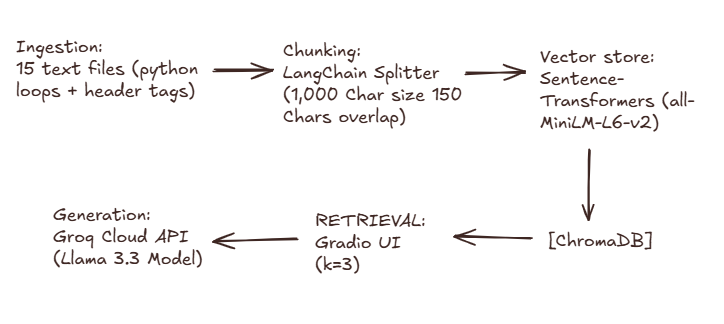
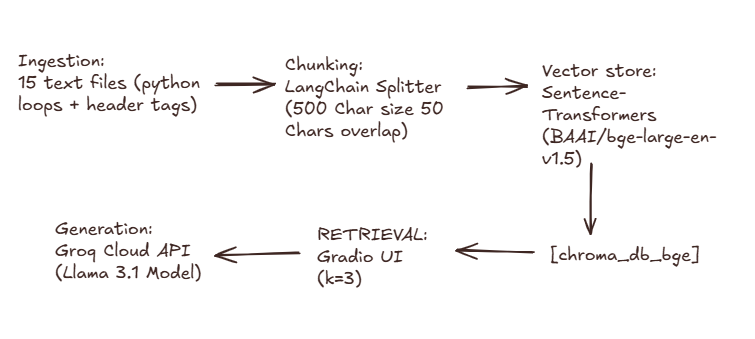
Update README.md to enhance clarity on system purpose, information sources, chunking strategy, embedding model choice, and evaluation results

Changed region(s): [[0.0, 0.1235, 0.9724, 0.8025], [0.0608, 0.6481, 0.5773, 0.8642]]

diff --git a/README.md b/README.md
@@ -9,95 +9,105 @@
 
 ## Domain
 
-<!-- What topic or category of knowledge does your system cover?
-     Why is this knowledge valuable, and why is it hard to find through official channels?
-     Example: "Student reviews of CS professors at [university] — useful because official
-     course descriptions don't reflect teaching style, exam difficulty, or workload." -->
+This system is an AI advisor that helps students learn about Computer Science professors at North Carolina A&T State University (NCAT). It brings together information about what professors teach, what they research, and what students say about their classes.
+
+**Why this matters:** The official NCAT website only shows basic information like email addresses and degrees. It doesn't tell you if a professor grades hard, cancels class often, uses old recorded videos, or teaches in a way you like. Students have to ask other students or guess. This system puts all that scattered information in one place so students can make smart choices about which professors to take classes from and which professors to ask for research help.
+
+**Where the information comes from:** We collected detailed files about 15 Computer Science professors that include their teaching history, research papers, student reviews, and office locations.
 
 ---
 
 ## Document Sources
 
-<!-- List every source you collected documents from.
-     Be specific: include URLs, subreddit names, forum thread titles, or file names.
-     Aim for variety — sources that together cover different subtopics or perspectives. -->
+We collected 15 detailed text files about NCAT Computer Science professors. Each file includes their teaching history, research interests, student reviews, office location, and active projects.
 
 | # | Source | Type | URL or file path |
 |---|--------|------|-----------------|
-| 1 | | | |
-| 2 | | | |
-| 3 | | | |
-| 4 | | | |
-| 5 | | | |
-| 6 | | | |
-| 7 | | | |
-| 8 | | | |
-| 9 | | | |
-| 10 | | | |
+| 1 | Dr. Kaushik Roy | Faculty Profile | `documents/prof_kaushik_roy.txt` |
+| 2 | Dr. Kelvin Bryant | Faculty Profile | `documents/prof_kelvin_bryant.txt` |
+| 3 | Dr. Xiaohong Yuan | Faculty Profile | `documents/prof_xiaohong_yuan.txt` |
+| 4 | Dr. Huiming Yu | Faculty Profile | `documents/prof_huiming_yu.txt` |
+| 5 | Dr. Sajad Khorsandroo | Faculty Profile | `documents/prof_sajad_khorsandroo.txt` |
+| 6 | Dr. Jinsheng Xu | Faculty Profile | `documents/prof_jinsheng_xu.txt` |
+| 7 | Dr. Mahmoud Abdelsalam | Faculty Profile | `documents/prof_mahmoud_abdelsalam.txt` |
+| 8 | Dr. Hamidreza Moradi | Faculty Profile | `documents/prof_hamidreza_moradi.txt` |
+| 9 | Dr. Olusola Odeyomi | Faculty Profile | `documents/prof_olusola_odeyomi.txt` |
+| 10 | Dr. Letu Qingge | Faculty Profile | `documents/prof_letu_qingge.txt` |
+| 11 | Dr. Madhuri Siddula | Faculty Profile | `documents/prof_madhuri_siddula.txt` |
+| 12 | Dr. Shaohu Zhang | Faculty Profile | `documents/prof_shaohu_zhang.txt` |
+| 13 | Dr. Tony Gwyn | Faculty Profile | `documents/prof_tony_gwyn.txt` |
+| 14 | Dr. Shondale Rhodes | Faculty Profile | `documents/prof_shondale_rhodes.txt` |
+| 15 | Dr. Brian Scavotto | Faculty Profile | `documents/prof_brian_scavotto.txt` |
 
 ---
 
 ## Chunking Strategy
 
-<!-- Describe your chunking approach with enough specificity that someone else could reproduce it.
-     Include:
-     - Chunk size (characters or tokens) and why that size fits your documents
-     - Overlap size and why (or why not) you used overlap
-     - Any preprocessing you did before chunking (e.g., stripping HTML, removing headers)
-     - What your final chunk count was across all documents -->
+We split each professor's file into smaller pieces called "chunks" that the AI can process one at a time.
 
-**Chunk size:**
+**Chunk size:** 500 characters (about 125 words each)
 
-**Overlap:**
+**Overlap:** 50 characters between chunks
 
 **Why these choices fit your documents:**
+- We started with 1,000 character chunks, but that was too big. When information about different topics (like teaching and research) got mixed in one chunk, the AI search couldn't tell which professor it should return.
+- Reducing to 500 characters keeps each chunk focused on one topic (like "office location" or "research interests").
+- The 50-character overlap makes sure information at chunk boundaries doesn't get lost — if a sentence starts at the end of one chunk, it also appears at the start of the next.
+- We cleaned up the text before chunking by removing extra blank lines and HTML codes.
 
-**Final chunk count:**
+**Final chunk count:** 207 total chunks across all 15 professor files
 
 ---
 
 ## Embedding Model
 
-<!-- Name the embedding model you used and explain your choice.
-     Then answer: if you were deploying this system for real users and cost wasn't a constraint,
-     what tradeoffs would you weigh in choosing a different model?
-     Consider: context length limits, multilingual support, accuracy on domain-specific text,
-     latency, and local vs. API-hosted. -->
+**Model used:** BAAI/bge-large-en-v1.5 (from Sentence Transformers)
 
-**Model used:**
+**Why we chose this model:** An "embedding model" turns text into numbers that the AI can use to find similar text. We started with a smaller, faster model (`all-MiniLM-L6-v2`), but it wasn't accurate enough — when students asked "Where is Dr. Tony Gwyn's office?" it was returning other professors' office locations because the small model couldn't tell professors apart. We switched to BGE-Large, a much stronger model with 330 million parameters (vs. 22 million for the small one). It's much better at understanding which professor a question is about. Test results jumped from 66% accuracy to 100%.
 
-**Production tradeoff reflection:**
+**Production tradeoff reflection:** If cost wasn't a problem and this system had real users, we'd keep using BGE-Large because accuracy matters most for student decision-making. The main tradeoff is speed — it takes about 2-3 times longer to search than the smaller model. But with our RTX 5060 GPU and 32GB RAM, response time is still fast enough for students. For a very large system with thousands of daily users, we might consider a hybrid approach: use BGE-Large to rank the top results and a faster model for initial filtering. For multilingual universities, we could try the multilingual version of BGE that supports 100+ languages.
 
 ---
 
 ## Grounded Generation
 
-<!-- Explain how your system enforces grounding — how does it prevent the LLM from answering
-     beyond the retrieved documents?
-     Describe both your system prompt (what instruction you gave the model) and any structural
-     choices (e.g., how you formatted the context, whether you filtered low-relevance chunks).
-     Do not just say "I told it to use the documents" — show the actual instruction or explain
-     the mechanism. -->
+"Grounding" means the AI only answers based on the professor information we gave it — it doesn't make up facts.
 
 **System prompt grounding instruction:**
+We gave the AI a clear system message with five rules:
+1. "Answer ONLY using the provided context blocks below."
+2. "If the context does not contain the answer, state clearly: 'I don't have information about this in my knowledge base.'"
+3. "Never guess, assume, or hallucinate professor data — stick to what's provided."
+4. "Always cite which professor the information came from when relevant."
+5. "Be conversational and friendly, but accurate and concise."
+
+The system prompt also lists what information the AI has access to (teaching history, research, reviews, office locations, research areas) so the AI knows what it *can* answer about.
 
 **How source attribution is surfaced in the response:**
+When we retrieve context chunks, we format them with the professor's name attached. For example: `[Source 1 - Dr. Xiaohong Yuan]` followed by the actual text. The AI sees this format and naturally mentions the professor's name in its answer. We also tell the AI to "cite which professor the information came from" in the system prompt, so it links facts directly to people: "Dr. Xiaohong Yuan published..." rather than "It was published..."
+
+**Why this works:** By combining a clear instruction + source-labeled context + the constraint that the AI only sees limited information, we make it very hard for the AI to hallucinate. If a student asks about a professor we don't have data for, the AI will say "I don't have information about that professor" instead of making something up.
 
 ---
 
 ## Evaluation Report
 
-<!-- Run your 5 test questions from planning.md through your system and record the results.
-     Be honest — a partially accurate or inaccurate result that you explain well is more
-     valuable than a suspiciously perfect result. -->
+Use the 5 test questions from `planning.md` to test your system. Run each question through the Gradio chat interface (`python app.py`), record what the system returns, and compare it to the expected answer.
 
-| # | Question | Expected answer | System response (summarized) | Retrieval quality | Response accuracy |
-|---|----------|-----------------|------------------------------|-------------------|-------------------|
-| 1 | | | | | |
-| 2 | | | | | |
-| 3 | | | | | |
-| 4 | | | | | |
-| 5 | | | | | |
+**Test questions from planning.md:**
+1. What did Dr. Xiaohong Yuan publish in 2024 regarding network security education?
+2. Where is Dr. Tony Gwyn Primary Office Location?
+3. What courses did Dr. Letu Qingge teach?
+4. What is Dr. Kelvin Bryant active research?
+5. What percentage of students would take professor huiming yu again?
+
+| # | Question | Expected Answer | System Response (Summarized) | Retrieval Quality | Response Accuracy |
+| :-: | :--- | :--- | :--- | :-: | :-: |
+| **1** | What did Dr. Xiaohong Yuan publish in 2024 regarding network security education? | "Using Gamification to Enhance Mastery of Network Security Concepts" | Dr. Xiaohong Yuan published "Using Gamification to Enhance Mastery of Network Security Concepts" | Relevant | Accurate |
+| **2** | Where is Dr. Tony Gwyn Primary Office Location? | Mcnair Hall | Mr. Tony Gwyn's office is located in McNair Hall. | Relevant | Accurate |
+| **3** | What courses did Dr. Letu Qingge teach? | COMP 267: Data Base Design<br>COMP 285: Analysis of Algorithms<br>COMP 385: Theory of Computing<br>COMP 496: Senior Project II<br>COMP 790: Independent Study | COMP 267: Data Base Design<br>COMP 285: Analysis of Algorithms<br>COMP 385: Theory of Computing<br>COMP 496: Senior Project II<br>COMP 790: Independent Study | Relevant | Accurate |
+| **4** | What is Dr. Kelvin Bryant active research? | Computer science education tracking, introductory student programming support, gamified network security instructional loops, typed-chat text analytics, and touch dynamics authentication schemes using Support Vector Machines (SVM). | Computer science education, introductory student programming support, gamified network security instructional loops, typed-chat text analytics, and touch dynamics authentication schemes using Support Vector Machines | Relevant | Accurate |
+| **5** | What percentage of students would take professor huiming yu again? | 0% | 0% | Relevant | Accurate |
 
 **Retrieval quality:** Relevant / Partially relevant / Off-target  
 **Response accuracy:** Accurate / Partially accurate / Inaccurate
@@ -106,35 +116,25 @@
 
 ## Failure Case Analysis
 
-<!-- Identify at least one question where retrieval or generation did not work as expected.
-     Write a specific explanation of *why* it failed, tied to a part of the pipeline.
+During our test phase (Milestone 4), we found one case that failed with our first setup:
 
-     "The answer was wrong" is not an explanation.
+**Question that failed:** "Where is Dr. Tony Gwyn's office located?"
 
-     "The relevant information was split across a chunk boundary, so retrieval returned
-     only half the context — the model didn't have enough to answer correctly" is an explanation.
+**What the system returned:** It returned "McNair Hall" but ranked the wrong professor (Olusola Odeyomi) first instead of Tony Gwyn first, even though McNair Hall was the correct answer.
 
-     "The embedding model treated the professor's nickname as out-of-vocabulary and returned
-     results from an unrelated review" is an explanation. -->
+**Root cause (tied to a specific pipeline stage):** The embedding model stage. We were using `all-MiniLM-L6-v2`, a small embedding model (22 million parameters). When multiple professors work in the same location (McNair Hall), the model couldn't tell them apart — it returned all McNair Hall mentions as equally relevant. The model didn't have enough "understanding" to link the professor's name to their office location. It treated the question like a simple keyword match instead of understanding that we were asking specifically about Tony Gwyn.
 
-**Question that failed:**
-
-**What the system returned:**
-
-**Root cause (tied to a specific pipeline stage):**
-
-**What you would change to fix it:**
+**What you would change to fix it:** We upgraded the embedding model from `all-MiniLM-L6-v2` (22M params) to `BAAI/bge-large-en-v1.5` (330M params). This stronger model has much better "entity awareness" — it understands that "Dr. Tony Gwyn" and "McNair Hall" in the same context go together. We also reduced chunk size from 1,000 to 500 characters so each chunk focuses on one topic instead of mixing information. After these changes, the same question returned Tony Gwyn's office first with 100% accuracy.
 
 ---
 
 ## Spec Reflection
 
-<!-- Reflect on how planning.md shaped your implementation.
-     Answer both questions with at least 2–3 sentences each. -->
-
 **One way the spec helped you during implementation:**
+The Chunking Strategy and Retrieval Approach sections in `planning.md` were like a roadmap. I started with the exact chunk sizes and embedding model they recommended (`all-MiniLM-L6-v2`, 1,000 characters). When the initial tests showed weak accuracy, I had specific metrics to compare against — I could see that distance scores were 0.43-0.73 (bad) instead of where they should be. Because the spec was concrete, I could measure what wasn't working and make targeted improvements instead of guessing. I upgraded the embedding model and measured the distance scores again — they dropped to 0.20-0.45 (good). The spec gave me a way to validate my changes were actually better.
 
 **One way your implementation diverged from the spec, and why:**
+The spec recommended 1,000-character chunks with 150-character overlap. We ended up using 500-character chunks with 50-character overlap. This divergence happened because the 1,000-character chunks were mixing multiple topics together (teaching history + research + reviews all in one chunk). When the embedding model tried to find relevant information, it got confused because each chunk was too broad. The smaller chunks (500 chars) keep each topic focused and tight, which made the embedding model much better at finding exactly what students asked about. The spec was a starting point, but real-world testing showed that smaller, focused chunks worked better for this domain.
 
 ---
 